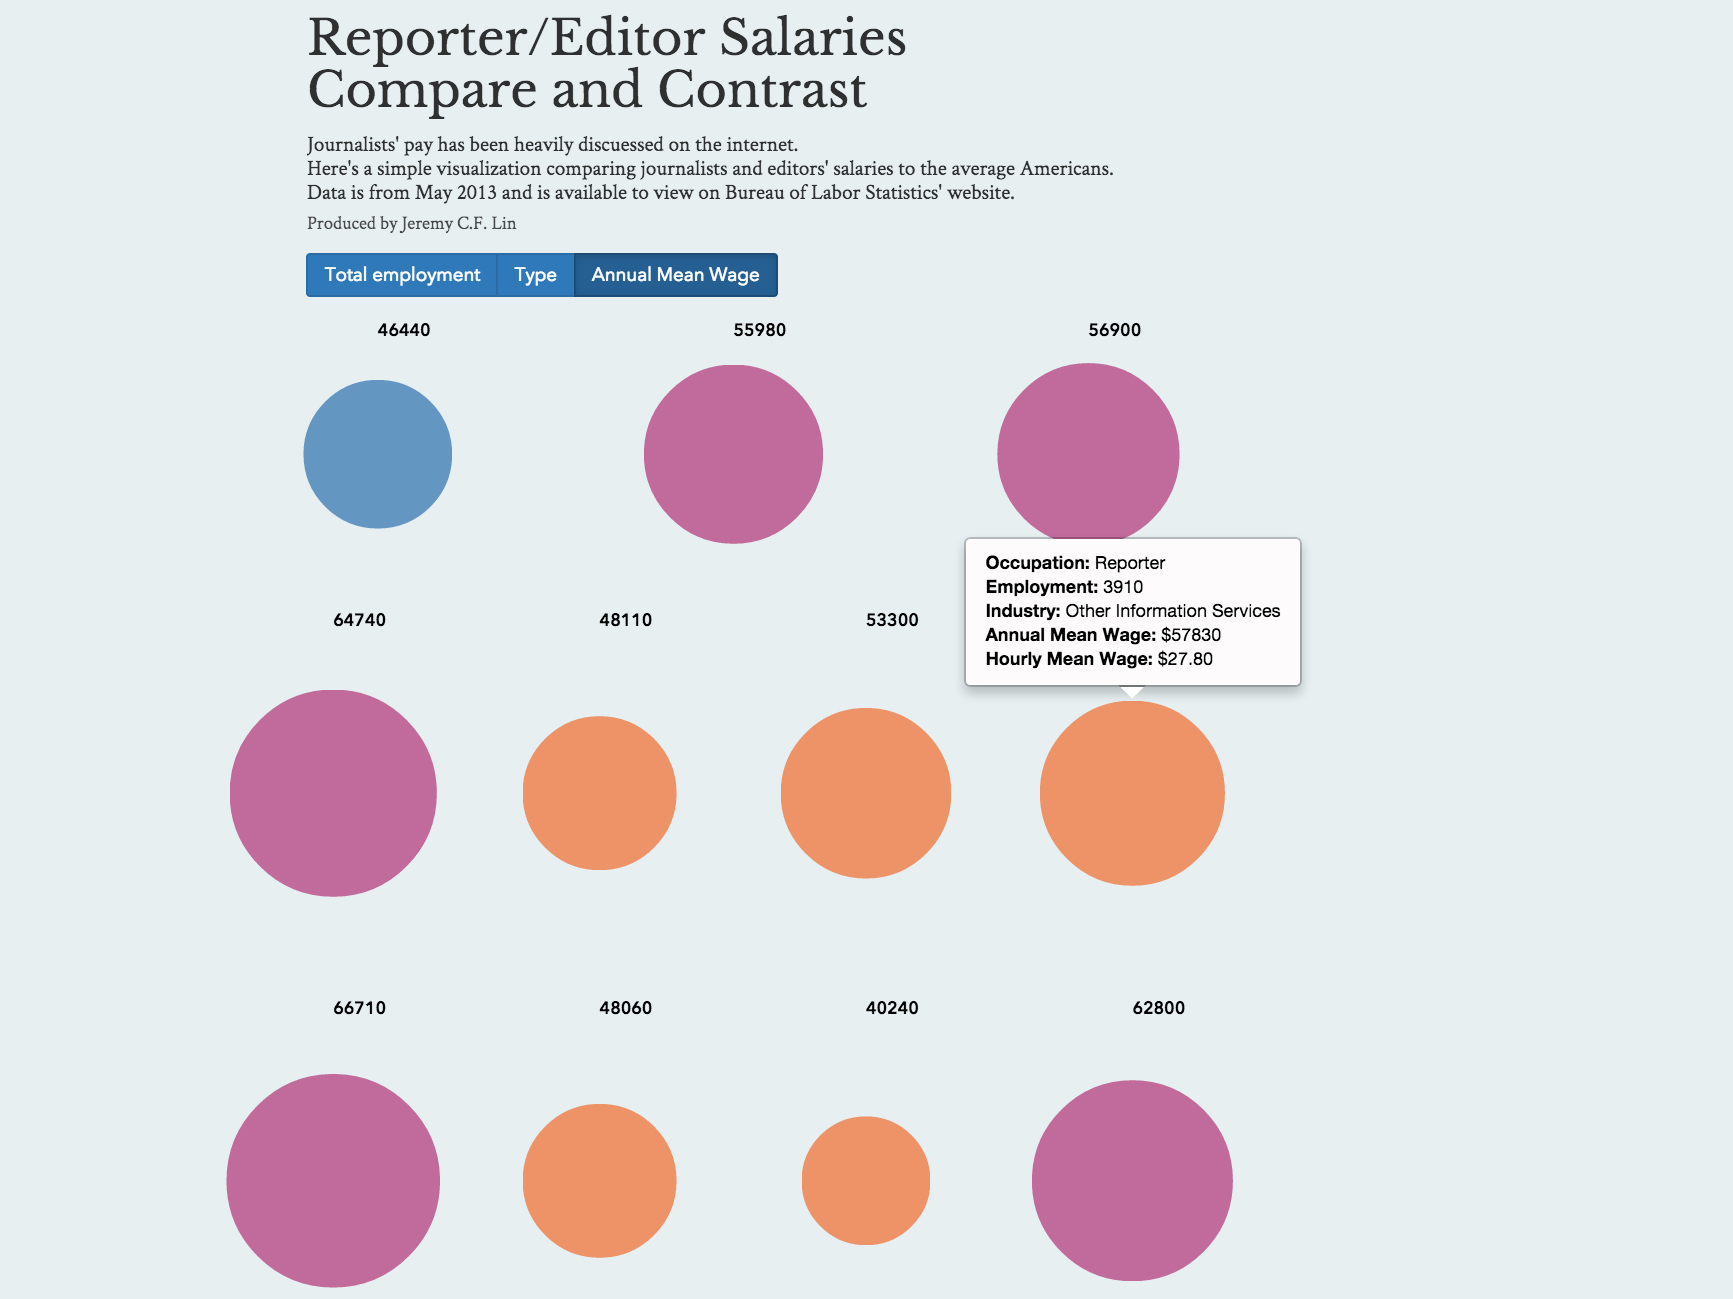
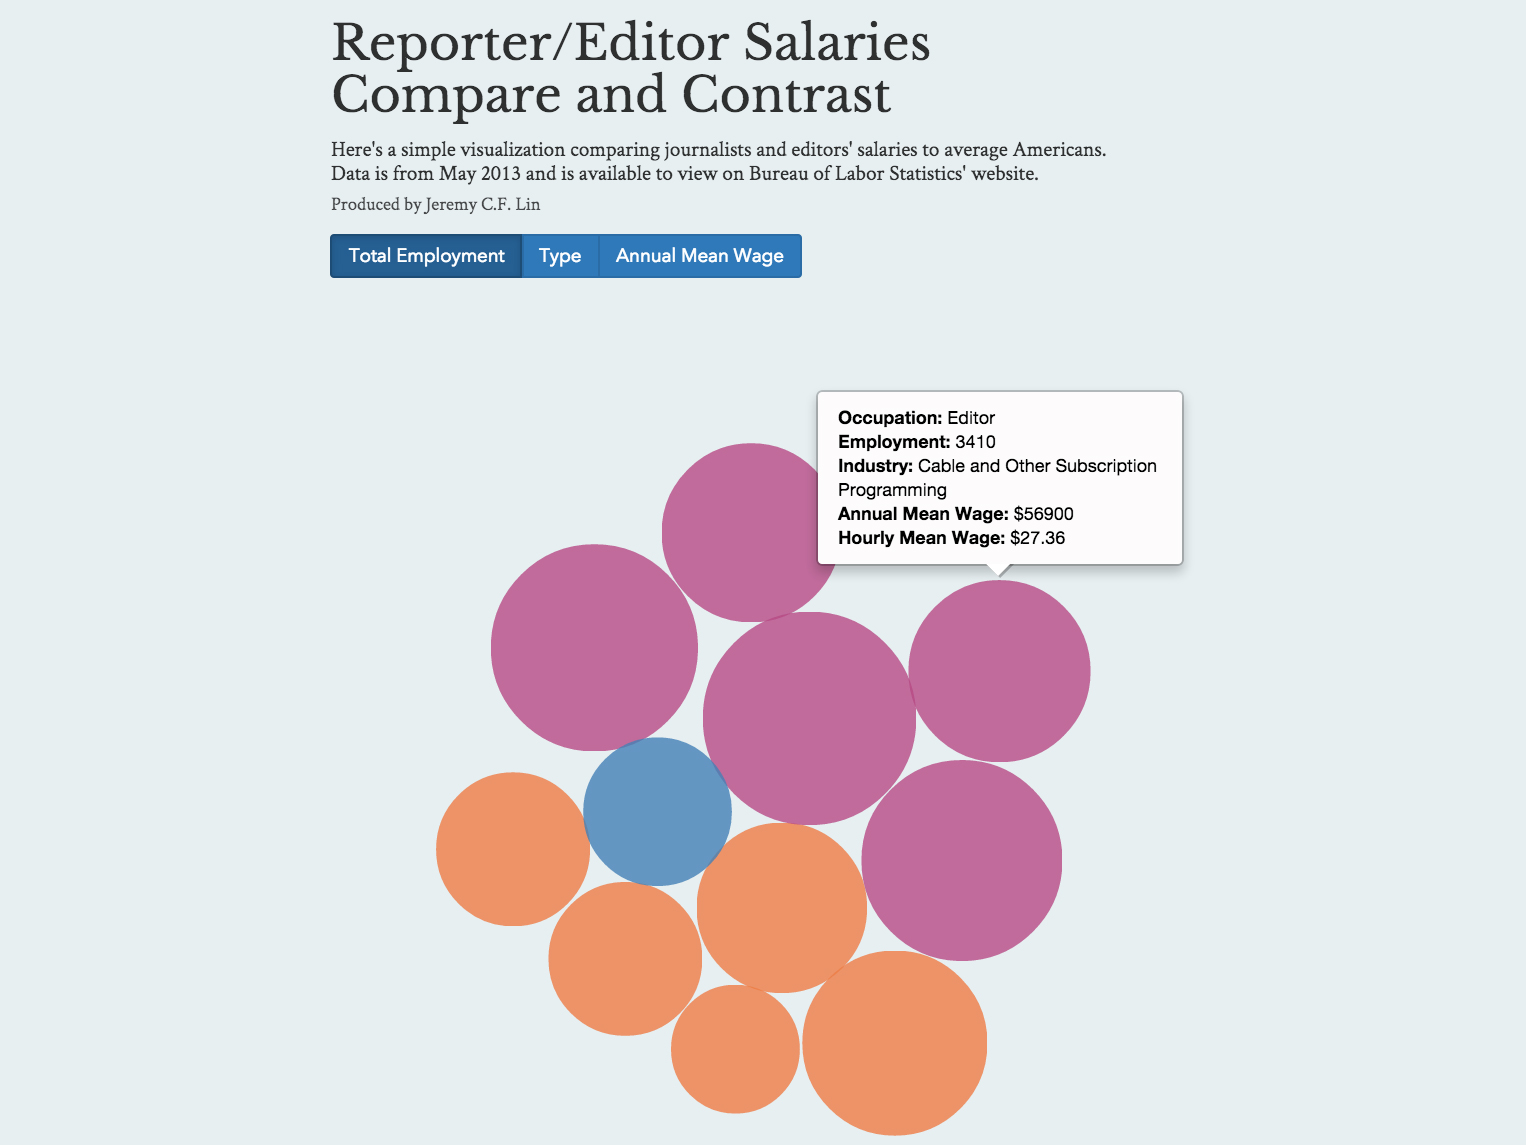
edited graphic

Changed region(s): [[0.1232, 0.0, 0.77, 1.0], [0.1848, 0.7642, 0.2156, 0.7948], [0.1848, 0.4585, 0.2156, 0.4891]]

diff --git a/index.html b/index.html
@@ -117,7 +117,7 @@
             <h1 id="portfolio"></h1>
             <div class="col-lg-3 col-sm-9 text-center">
                 <a href="charts/journalism/index.html" target="_blank" class="portfolio-link" data-toggle="modal">
-                <img class="img-responsive img-center" src="images/journalism/journalism3.jpg" alt="Reporter Salaries"></a>
+                <img class="img-responsive img-center" src="images/journalism/journalism.jpg" alt="Reporter Salaries"></a>
             <div class="portfolio">
                 <a href="charts/journalism/index.html" target="_blank" class="portfolio-link" data-toggle="modal"><p>Journalist Salaries</p></a>
                 <p1>Interactive Graphic</p>

diff --git a/charts/journalism/index.html b/charts/journalism/index.html
@@ -92,7 +92,7 @@
 <body>
 <div class="title">
 	<h1>Reporter/Editor Salaries</br> Compare and Contrast</h1>
-	<h2>Journalists' pay has been heavily discuessed on the internet.</br> Here's a simple visualization comparing journalists and editors' salaries to the average Americans.</br>
+	<h2>Here's a simple visualization comparing journalists and editors' salaries to average Americans.</br>
 	Data is from May 2013 and is available to view on Bureau of Labor Statistics' website.	
 	</h2>
 	<h3>Produced by Jeremy C.F. Lin</h3>
